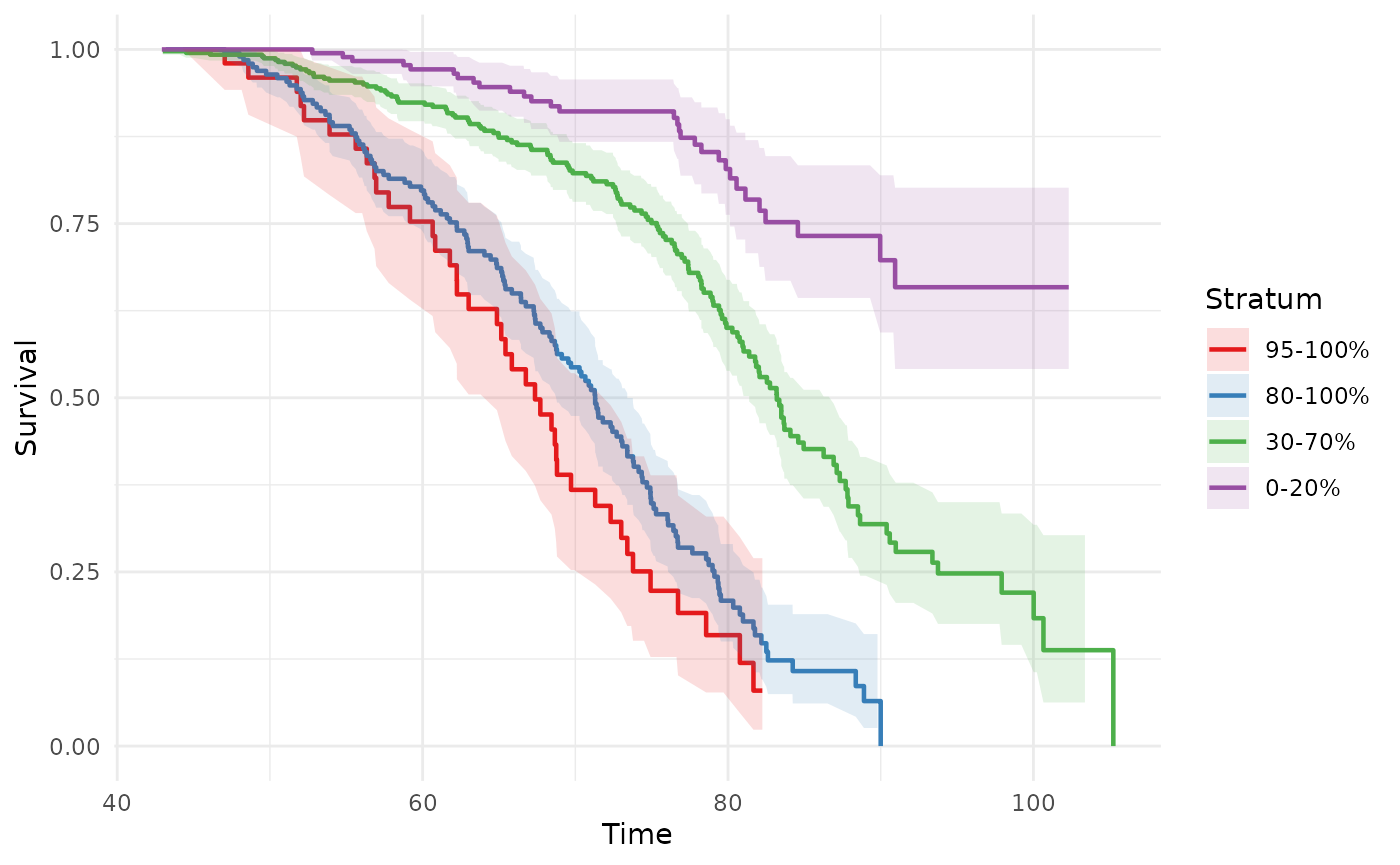
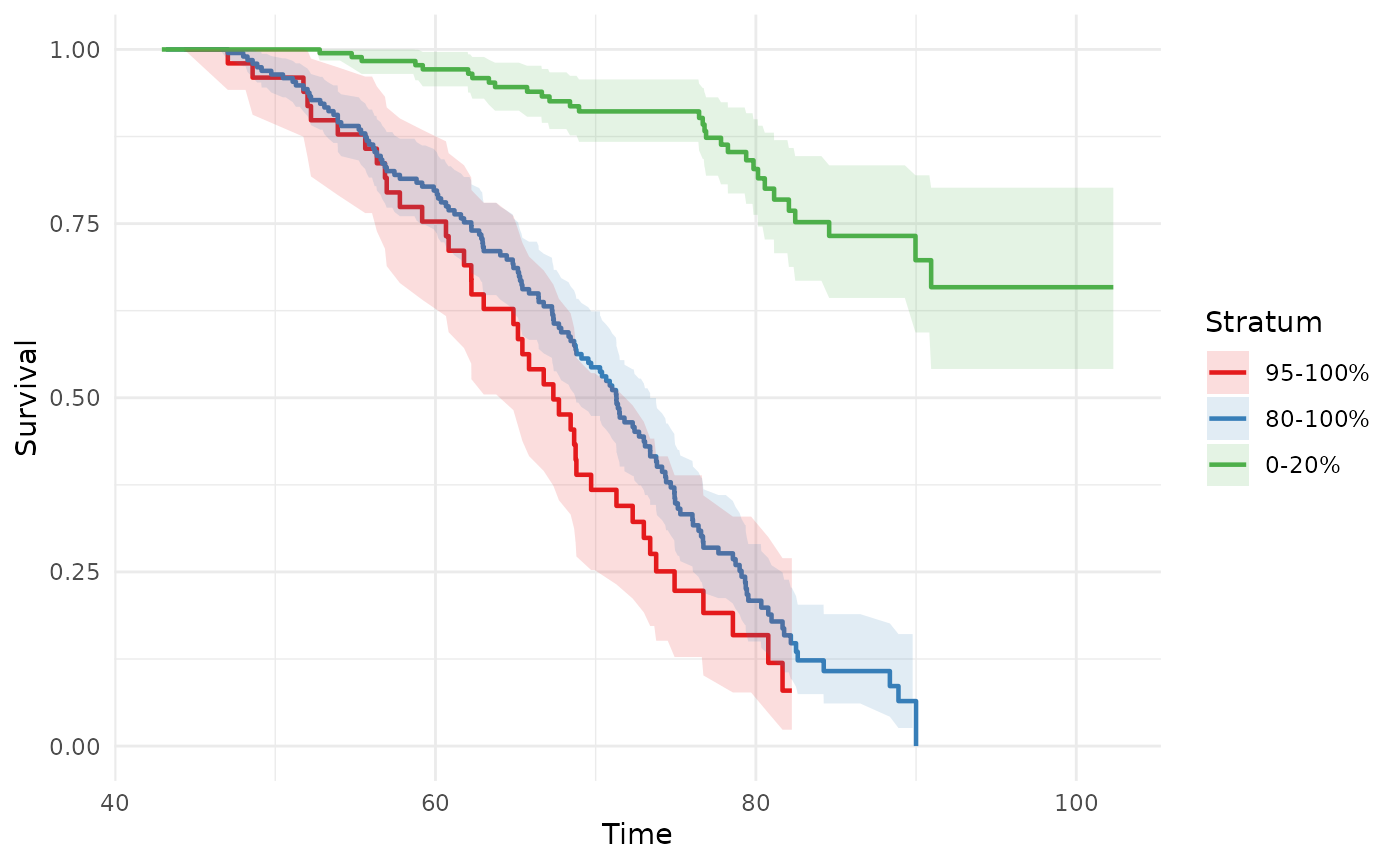
Deploying to gh-pages from @ amorris28/hazrd@01b8f826bd342c272f6f0e1f5f04eec6ed070474 🚀

diff --git a/articles/hazrd.html b/articles/hazrd.html
@@ -226,8 +226,11 @@ returns either a <code>ggplot</code> object
 <div class="section level3">
 <h3 id="default-plot">Default plot<a class="anchor" aria-label="anchor" href="#default-plot"></a>
 </h3>
-<p>The default <code>breaks = c(0.20, 0.80)</code> splits the cohort
-into bottom 20%, middle 60%, and top 20%:</p>
+<p>The default <code>intervals</code> produce four bands — top 5%
+(0.95–1), top 20% (0.80–1), middle 40% (0.30–0.70), and bottom 20%
+(0–0.20). Bands may overlap, which is useful for showing how
+progressively broader high-risk groups compare to the low-risk
+reference:</p>
 <div class="sourceCode" id="cb9"><pre class="downlit sourceCode r">
 <code class="sourceCode R"><span><span class="fu"><a href="../reference/phs_km_curve.html">phs_km_curve</a></span><span class="op">(</span><span class="va">test_data</span><span class="op">)</span></span>
 <span><span class="co">#&gt; Warning: Removed 2 rows containing missing values or values outside the scale range</span></span>
@@ -235,16 +238,32 @@ into bottom 20%, middle 60%, and top 20%:</p>
 <p><img src="hazrd_files/figure-html/km_default-1.png" class="r-plt" alt="" width="700"></p>
 </div>
 <div class="section level3">
-<h3 id="custom-cutpoints">Custom cutpoints<a class="anchor" aria-label="anchor" href="#custom-cutpoints"></a>
+<h3 id="custom-overlapping-intervals">Custom overlapping intervals<a class="anchor" aria-label="anchor" href="#custom-overlapping-intervals"></a>
 </h3>
-<p>Pass any numeric vector of percentile cutpoints (strictly in (0, 1))
-to <code>breaks</code>:</p>
+<p>Pass a list of <code>c(lo, hi)</code> percentile pairs to
+<code>intervals</code>. Bands can overlap freely — each is an
+independent Kaplan-Meier fit on the corresponding subset:</p>
 <div class="sourceCode" id="cb10"><pre class="downlit sourceCode r">
-<code class="sourceCode R"><span><span class="co"># Quintiles</span></span>
-<span><span class="fu"><a href="../reference/phs_km_curve.html">phs_km_curve</a></span><span class="op">(</span><span class="va">test_data</span>, breaks <span class="op">=</span> <span class="fu"><a href="https://rdrr.io/r/base/c.html" class="external-link">c</a></span><span class="op">(</span><span class="fl">0.20</span>, <span class="fl">0.40</span>, <span class="fl">0.60</span>, <span class="fl">0.80</span><span class="op">)</span><span class="op">)</span></span>
-<span><span class="co">#&gt; Warning: Removed 2 rows containing missing values or values outside the scale range</span></span>
+<code class="sourceCode R"><span><span class="fu"><a href="../reference/phs_km_curve.html">phs_km_curve</a></span><span class="op">(</span></span>
+<span>  <span class="va">test_data</span>,</span>
+<span>  intervals <span class="op">=</span> <span class="fu"><a href="https://rdrr.io/r/base/list.html" class="external-link">list</a></span><span class="op">(</span><span class="fu"><a href="https://rdrr.io/r/base/c.html" class="external-link">c</a></span><span class="op">(</span><span class="fl">0.95</span>, <span class="fl">1</span><span class="op">)</span>, <span class="fu"><a href="https://rdrr.io/r/base/c.html" class="external-link">c</a></span><span class="op">(</span><span class="fl">0.80</span>, <span class="fl">1</span><span class="op">)</span>, <span class="fu"><a href="https://rdrr.io/r/base/c.html" class="external-link">c</a></span><span class="op">(</span><span class="fl">0.00</span>, <span class="fl">0.20</span><span class="op">)</span><span class="op">)</span></span>
+<span><span class="op">)</span></span>
+<span><span class="co">#&gt; Warning: Removed 1 row containing missing values or values outside the scale range</span></span>
 <span><span class="co">#&gt; (`geom_ribbon()`).</span></span></code></pre></div>
 <p><img src="hazrd_files/figure-html/km_custom-1.png" class="r-plt" alt="" width="700"></p>
+</div>
+<div class="section level3">
+<h3 id="exclusive-bands-legacy-breaks">Exclusive bands (legacy <code>breaks</code>)<a class="anchor" aria-label="anchor" href="#exclusive-bands-legacy-breaks"></a>
+</h3>
+<p>For non-overlapping bands, use <code>breaks</code> with
+<code>intervals = NULL</code>. Pass a numeric vector of percentile
+cutpoints (strictly between 0 and 1):</p>
+<div class="sourceCode" id="cb11"><pre class="downlit sourceCode r">
+<code class="sourceCode R"><span><span class="co"># Quintiles</span></span>
+<span><span class="fu"><a href="../reference/phs_km_curve.html">phs_km_curve</a></span><span class="op">(</span><span class="va">test_data</span>, intervals <span class="op">=</span> <span class="cn">NULL</span>, breaks <span class="op">=</span> <span class="fu"><a href="https://rdrr.io/r/base/c.html" class="external-link">c</a></span><span class="op">(</span><span class="fl">0.20</span>, <span class="fl">0.40</span>, <span class="fl">0.60</span>, <span class="fl">0.80</span><span class="op">)</span><span class="op">)</span></span>
+<span><span class="co">#&gt; Warning: Removed 2 rows containing missing values or values outside the scale range</span></span>
+<span><span class="co">#&gt; (`geom_ribbon()`).</span></span></code></pre></div>
+<p><img src="hazrd_files/figure-html/km_breaks-1.png" class="r-plt" alt="" width="700"></p>
 </div>
 <div class="section level3">
 <h3 id="modifying-the-ggplot-output">Modifying the ggplot output<a class="anchor" aria-label="anchor" href="#modifying-the-ggplot-output"></a>
@@ -252,7 +271,7 @@ to <code>breaks</code>:</p>
 <p><code><a href="../reference/phs_km_curve.html">phs_km_curve()</a></code> returns a standard <code>ggplot</code>
 object that can be extended with any ggplot2 layers, themes, or
 scales:</p>
-<div class="sourceCode" id="cb11"><pre class="downlit sourceCode r">
+<div class="sourceCode" id="cb12"><pre class="downlit sourceCode r">
 <code class="sourceCode R"><span><span class="fu"><a href="../reference/phs_km_curve.html">phs_km_curve</a></span><span class="op">(</span><span class="va">test_data</span><span class="op">)</span> <span class="op">+</span></span>
 <span>  <span class="fu"><a href="https://ggplot2.tidyverse.org/reference/ggtheme.html" class="external-link">theme_classic</a></span><span class="op">(</span>base_size <span class="op">=</span> <span class="fl">13</span><span class="op">)</span> <span class="op">+</span></span>
 <span>  <span class="fu"><a href="https://ggplot2.tidyverse.org/reference/labs.html" class="external-link">labs</a></span><span class="op">(</span></span>
@@ -272,7 +291,7 @@ scales:</p>
 </h3>
 <p>Use <code>output = "data"</code> when you want to build a fully
 custom plot or pass the survival estimates on to further analysis:</p>
-<div class="sourceCode" id="cb12"><pre class="downlit sourceCode r">
+<div class="sourceCode" id="cb13"><pre class="downlit sourceCode r">
 <code class="sourceCode R"><span><span class="va">km_data</span> <span class="op">&lt;-</span> <span class="fu"><a href="../reference/phs_km_curve.html">phs_km_curve</a></span><span class="op">(</span><span class="va">test_data</span>, output <span class="op">=</span> <span class="st">"data"</span><span class="op">)</span></span>
 <span><span class="fu"><a href="https://rdrr.io/r/utils/head.html" class="external-link">head</a></span><span class="op">(</span><span class="va">km_data</span><span class="op">)</span></span>
 <span><span class="co">#&gt;       time  estimate  conf.low conf.high n.risk n.event stratum</span></span>
@@ -286,7 +305,7 @@ custom plot or pass the survival estimates on to further analysis:</p>
 <code>estimate</code>, <code>conf.low</code>, <code>conf.high</code>,
 <code>n.risk</code>, <code>n.event</code>, and <code>stratum</code>,
 which can be used directly with ggplot2:</p>
-<div class="sourceCode" id="cb13"><pre class="downlit sourceCode r">
+<div class="sourceCode" id="cb14"><pre class="downlit sourceCode r">
 <code class="sourceCode R"><span><span class="fu"><a href="https://ggplot2.tidyverse.org/reference/ggplot.html" class="external-link">ggplot</a></span><span class="op">(</span><span class="va">km_data</span>, <span class="fu"><a href="https://ggplot2.tidyverse.org/reference/aes.html" class="external-link">aes</a></span><span class="op">(</span>x <span class="op">=</span> <span class="va">time</span>, y <span class="op">=</span> <span class="va">estimate</span>,</span>
 <span>                    ymin <span class="op">=</span> <span class="va">conf.low</span>, ymax <span class="op">=</span> <span class="va">conf.high</span>,</span>
 <span>                    color <span class="op">=</span> <span class="va">stratum</span>, fill <span class="op">=</span> <span class="va">stratum</span><span class="op">)</span><span class="op">)</span> <span class="op">+</span></span>
@@ -310,12 +329,12 @@ which can be used directly with ggplot2:</p>
 curves for individuals at specified PHS percentiles. Unlike
 <code><a href="../reference/phs_km_curve.html">phs_km_curve()</a></code>, these are smooth model-based predictions,
 not empirical group estimates.</p>
-<div class="sourceCode" id="cb14"><pre class="downlit sourceCode r">
+<div class="sourceCode" id="cb15"><pre class="downlit sourceCode r">
 <code class="sourceCode R"><span><span class="fu"><a href="../reference/phs_cox_curve.html">phs_cox_curve</a></span><span class="op">(</span><span class="va">test_data</span><span class="op">)</span></span></code></pre></div>
 <p><img src="hazrd_files/figure-html/cox_default-1.png" class="r-plt" alt="" width="700"></p>
 <p>Supply specific percentiles via the <code>percentiles</code>
 argument:</p>
-<div class="sourceCode" id="cb15"><pre class="downlit sourceCode r">
+<div class="sourceCode" id="cb16"><pre class="downlit sourceCode r">
 <code class="sourceCode R"><span><span class="fu"><a href="../reference/phs_cox_curve.html">phs_cox_curve</a></span><span class="op">(</span><span class="va">test_data</span>, percentiles <span class="op">=</span> <span class="fu"><a href="https://rdrr.io/r/base/c.html" class="external-link">c</a></span><span class="op">(</span><span class="fl">0.01</span>, <span class="fl">0.10</span>, <span class="fl">0.50</span>, <span class="fl">0.90</span>, <span class="fl">0.99</span><span class="op">)</span><span class="op">)</span></span></code></pre></div>
 <p><img src="hazrd_files/figure-html/cox_custom-1.png" class="r-plt" alt="" width="700"></p>
 </div>

diff --git a/copilot-instructions.html b/copilot-instructions.html
@@ -47,10 +47,52 @@
 </div>
 <div class="section level2">
 <h2 id="pre-merge-checklist-dev---main">Pre-merge checklist (dev -&gt; main)<a class="anchor" aria-label="anchor" href="#pre-merge-checklist-dev---main"></a></h2>
-<p>Before merging <code>dev</code> into <code>main</code>, always run these steps in order: 1. <code>devtools::document()</code> — regenerate <code>NAMESPACE</code> and <code>man/</code> Rd files. 2. <code>devtools::check()</code> — must pass with 0 errors, 0 warnings, 0 notes. 3. Render <code>README.md</code> via the Docker container (see instructions above). 4. Commit all changed files (<code>man/</code>, <code>NAMESPACE</code>, <code>README.md</code>) before merging.</p>
-<p>Good example edits to get started - Small bugfix: ensure <code>or_age</code> bounds are handled (see <code>.calc_or_metric</code>) — add test covering an <code>or_age</code> outside observed range. - Add a new C-index method: implement <code>"uno"</code> in <code>.calc_cindex_metric()</code> and add a test and example in <code>R/phs_metrics.R</code> documentation.</p>
+<p>This is the full workflow from issue to merged release. Work is done on <code>dev</code>; <code>main</code> should always be clean and passing.</p>
+<div class="section level3">
+<h3 id="id_1-during-development-on-dev">1. During development (on <code>dev</code>)<a class="anchor" aria-label="anchor" href="#id_1-during-development-on-dev"></a></h3>
+<ul class="task-list"><li><label><input type="checkbox">Issues for the milestone are tagged in GitHub (e.g. milestone <code>0.2.2</code>)</label></li>
+<li><label><input type="checkbox">All feature/fix commits are on <code>dev</code></label></li>
+<li><label><input type="checkbox">A <code>testthat</code> test covers every changed behavior</label></li>
+</ul></div>
+<div class="section level3">
+<h3 id="id_2-documentation-on-dev-before-merge">2. Documentation (on <code>dev</code>, before merge)<a class="anchor" aria-label="anchor" href="#id_2-documentation-on-dev-before-merge"></a></h3>
+<ul class="task-list"><li>
+<p><label><input type="checkbox"><strong>roxygen</strong>: update <code>@param</code>, <code>@return</code>, <code>@examples</code> in <code>R/</code> source for any changed or new exported functions</label></p>
+<ul><li>Never use <code>\%</code> in roxygen comments — use plain text (“percent” or “0-20”) instead; see safety notes above</li>
+</ul></li>
+<li><p><label><input type="checkbox"><strong><code>devtools::document()</code></strong> — regenerate <code>NAMESPACE</code> and all <code>man/</code> Rd files; commit any changed files in <code>man/</code> and <code>NAMESPACE</code></label></p></li>
+<li><p><label><input type="checkbox"><strong><code>NEWS.md</code></strong> — add an entry under the current version heading describing new features, fixes, and breaking changes</label></p></li>
+<li><p><label><input type="checkbox"><strong>Vignette</strong> (<code>vignettes/hazrd.Rmd</code>) — update examples and narrative to reflect any new or changed parameters/behavior</label></p></li>
+<li>
+<p><label><input type="checkbox"><strong><code>README.Rmd</code></strong> — update quick example and installation section if needed; then render via Docker:</label></p>
+<pre><code>docker run --rm -v /path/to/hazrd:/repo my-r-image \
+  Rscript -e 'rmarkdown::render("/repo/README.Rmd", output_file = "/repo/README.md")'</code></pre>
+<p>Commit the updated <code>README.md</code></p>
+</li>
+<li><p><label><input type="checkbox"><strong><code>DESCRIPTION</code></strong> — bump <code>Version:</code> field to the new release number</label></p></li>
+</ul></div>
+<div class="section level3">
+<h3 id="id_3-final-checks-on-dev-before-merge">3. Final checks (on <code>dev</code>, before merge)<a class="anchor" aria-label="anchor" href="#id_3-final-checks-on-dev-before-merge"></a></h3>
+<ul class="task-list"><li><label><input type="checkbox"><strong><code>devtools::check()</code></strong> — must pass with 0 errors, 0 warnings, 0 notes</label></li>
+<li><label><input type="checkbox"><strong><code>devtools::test()</code></strong> — all tests green</label></li>
+<li><label><input type="checkbox">Commit everything; confirm <code>git status</code> is clean</label></li>
+</ul></div>
+<div class="section level3">
+<h3 id="id_4-merge-and-tag">4. Merge and tag<a class="anchor" aria-label="anchor" href="#id_4-merge-and-tag"></a></h3>
+<ul class="task-list"><li><label><input type="checkbox"><code>git checkout main &amp;&amp; git merge --ff-only dev</code></label></li>
+<li><label><input type="checkbox"><code>git push origin main</code></label></li>
+<li><label><input type="checkbox"><code>git tag vX.Y.Z main &amp;&amp; git push origin vX.Y.Z</code></label></li>
+<li><label><input type="checkbox">Create GitHub release pointing at the tag (use <code>gh release create</code>)</label></li>
+<li><label><input type="checkbox">Close resolved issues (commit messages with <code>Closes #N</code> do this automatically)</label></li>
+</ul></div>
+<div class="section level3">
+<h3 id="id_5-post-merge">5. Post-merge<a class="anchor" aria-label="anchor" href="#id_5-post-merge"></a></h3>
+<ul class="task-list"><li><label><input type="checkbox"><code>git checkout dev</code> — continue future work on <code>dev</code></label></li>
+<li><label><input type="checkbox">Bump <code>DESCRIPTION</code> version to next dev version (e.g. <code>0.2.2.9000</code>) on <code>dev</code></label></li>
+</ul><p>Good example edits to get started - Small bugfix: ensure <code>or_age</code> bounds are handled (see <code>.calc_or_metric</code>) — add test covering an <code>or_age</code> outside observed range. - Add a new C-index method: implement <code>"uno"</code> in <code>.calc_cindex_metric()</code> and add a test and example in <code>R/phs_metrics.R</code> documentation.</p>
 <p>Prompting hints for the AI agent - When you change metric output shape, list the exact column names and show a one-row example tibble so maintainers can verify compatibility. - For bootstrap changes, include a minimal reproducible call of <code>phs_metrics</code> with <code>bootstrap = TRUE</code> and <code>n_boot = 50</code> in tests so CI runs fast.</p>
 <p>If anything in this file is unclear or you’d like more detail (examples of expected inputs, a sample dev/test script, or CI matrix notes), tell me which section and I’ll expand it.</p>
+</div>
 </div>
 
 

diff --git a/index.html b/index.html
@@ -99,11 +99,14 @@
 <span>  seed      <span class="op">=</span> <span class="fl">42</span></span>
 <span><span class="op">)</span></span>
 <span></span>
-<span><span class="co"># Kaplan-Meier plot stratified by PHS percentile (returns a ggplot object)</span></span>
+<span><span class="co"># Kaplan-Meier plot with overlapping intervals (returns a ggplot object)</span></span>
 <span><span class="fu"><a href="reference/phs_km_curve.html">phs_km_curve</a></span><span class="op">(</span><span class="va">test_data</span><span class="op">)</span></span>
 <span></span>
-<span><span class="co"># Return tidy data for a custom ggplot</span></span>
-<span><span class="va">km_data</span> <span class="op">&lt;-</span> <span class="fu"><a href="reference/phs_km_curve.html">phs_km_curve</a></span><span class="op">(</span><span class="va">test_data</span>, breaks <span class="op">=</span> <span class="fu"><a href="https://rdrr.io/r/base/c.html" class="external-link">c</a></span><span class="op">(</span><span class="fl">0.20</span>, <span class="fl">0.40</span>, <span class="fl">0.60</span>, <span class="fl">0.80</span><span class="op">)</span>, output <span class="op">=</span> <span class="st">"data"</span><span class="op">)</span></span></code></pre></div>
+<span><span class="co"># Overlapping intervals — top 5%, top 20%, bottom 20%</span></span>
+<span><span class="fu"><a href="reference/phs_km_curve.html">phs_km_curve</a></span><span class="op">(</span><span class="va">test_data</span>, intervals <span class="op">=</span> <span class="fu"><a href="https://rdrr.io/r/base/list.html" class="external-link">list</a></span><span class="op">(</span><span class="fu"><a href="https://rdrr.io/r/base/c.html" class="external-link">c</a></span><span class="op">(</span><span class="fl">0.95</span>, <span class="fl">1</span><span class="op">)</span>, <span class="fu"><a href="https://rdrr.io/r/base/c.html" class="external-link">c</a></span><span class="op">(</span><span class="fl">0.80</span>, <span class="fl">1</span><span class="op">)</span>, <span class="fu"><a href="https://rdrr.io/r/base/c.html" class="external-link">c</a></span><span class="op">(</span><span class="fl">0</span>, <span class="fl">0.20</span><span class="op">)</span><span class="op">)</span><span class="op">)</span></span>
+<span></span>
+<span><span class="co"># Legacy exclusive bands via breaks</span></span>
+<span><span class="va">km_data</span> <span class="op">&lt;-</span> <span class="fu"><a href="reference/phs_km_curve.html">phs_km_curve</a></span><span class="op">(</span><span class="va">test_data</span>, intervals <span class="op">=</span> <span class="cn">NULL</span>, breaks <span class="op">=</span> <span class="fu"><a href="https://rdrr.io/r/base/c.html" class="external-link">c</a></span><span class="op">(</span><span class="fl">0.20</span>, <span class="fl">0.40</span>, <span class="fl">0.60</span>, <span class="fl">0.80</span><span class="op">)</span>, output <span class="op">=</span> <span class="st">"data"</span><span class="op">)</span></span></code></pre></div>
 </div>
 <div class="section level2">
 <h2 id="planned-features">Planned features<a class="anchor" aria-label="anchor" href="#planned-features"></a>

diff --git a/copilot-instructions.md b/copilot-instructions.md
@@ -90,12 +90,71 @@ Rd comment and can corrupt the `\arguments{}` block. Use plain text
 
 ## Pre-merge checklist (dev -\> main)
 
-Before merging `dev` into `main`, always run these steps in order: 1.
-`devtools::document()` — regenerate `NAMESPACE` and `man/` Rd files. 2.
-`devtools::check()` — must pass with 0 errors, 0 warnings, 0 notes. 3.
-Render `README.md` via the Docker container (see instructions above). 4.
-Commit all changed files (`man/`, `NAMESPACE`, `README.md`) before
-merging.
+This is the full workflow from issue to merged release. Work is done on
+`dev`; `main` should always be clean and passing.
+
+### 1. During development (on `dev`)
+
+Issues for the milestone are tagged in GitHub (e.g. milestone `0.2.2`)
+
+All feature/fix commits are on `dev`
+
+A `testthat` test covers every changed behavior
+
+### 2. Documentation (on `dev`, before merge)
+
+**roxygen**: update `@param`, `@return`, `@examples` in `R/` source for
+any changed or new exported functions
+
+- Never use `\%` in roxygen comments — use plain text (“percent” or
+  “0-20”) instead; see safety notes above
+
+**`devtools::document()`** — regenerate `NAMESPACE` and all `man/` Rd
+files; commit any changed files in `man/` and `NAMESPACE`
+
+**`NEWS.md`** — add an entry under the current version heading
+describing new features, fixes, and breaking changes
+
+**Vignette** (`vignettes/hazrd.Rmd`) — update examples and narrative to
+reflect any new or changed parameters/behavior
+
+**`README.Rmd`** — update quick example and installation section if
+needed; then render via Docker:
+
+    docker run --rm -v /path/to/hazrd:/repo my-r-image \
+      Rscript -e 'rmarkdown::render("/repo/README.Rmd", output_file = "/repo/README.md")'
+
+Commit the updated `README.md`
+
+**`DESCRIPTION`** — bump `Version:` field to the new release number
+
+### 3. Final checks (on `dev`, before merge)
+
+**`devtools::check()`** — must pass with 0 errors, 0 warnings, 0 notes
+
+**`devtools::test()`** — all tests green
+
+Commit everything; confirm `git status` is clean
+
+### 4. Merge and tag
+
+`git checkout main && git merge --ff-only dev`
+
+`git push origin main`
+
+`git tag vX.Y.Z main && git push origin vX.Y.Z`
+
+Create GitHub release pointing at the tag (use `gh release create`)
+
+Close resolved issues (commit messages with `Closes #N` do this
+automatically)
+
+### 5. Post-merge
+
+`git checkout dev` — continue future work on `dev`
+
+Bump `DESCRIPTION` version to next dev version (e.g. `0.2.2.9000`) on
+`dev`
 
 Good example edits to get started - Small bugfix: ensure `or_age` bounds
 are handled (see `.calc_or_metric`) — add test covering an `or_age`

diff --git a/articles/hazrd.md b/articles/hazrd.md
@@ -177,8 +177,10 @@ object (`output = "plot"`, the default) or a tidy data frame
 
 ### Default plot
 
-The default `breaks = c(0.20, 0.80)` splits the cohort into bottom 20%,
-middle 60%, and top 20%:
+The default `intervals` produce four bands — top 5% (0.95–1), top 20%
+(0.80–1), middle 40% (0.30–0.70), and bottom 20% (0–0.20). Bands may
+overlap, which is useful for showing how progressively broader high-risk
+groups compare to the low-risk reference:
 
 ``` r
 phs_km_curve(test_data)
@@ -188,19 +190,36 @@ phs_km_curve(test_data)
 
 ![](hazrd_files/figure-html/km_default-1.png)
 
-### Custom cutpoints
+### Custom overlapping intervals
 
-Pass any numeric vector of percentile cutpoints (strictly in (0, 1)) to
-`breaks`:
+Pass a list of `c(lo, hi)` percentile pairs to `intervals`. Bands can
+overlap freely — each is an independent Kaplan-Meier fit on the
+corresponding subset:
 
 ``` r
-# Quintiles
-phs_km_curve(test_data, breaks = c(0.20, 0.40, 0.60, 0.80))
-#> Warning: Removed 2 rows containing missing values or values outside the scale range
+phs_km_curve(
+  test_data,
+  intervals = list(c(0.95, 1), c(0.80, 1), c(0.00, 0.20))
+)
+#> Warning: Removed 1 row containing missing values or values outside the scale range
 #> (`geom_ribbon()`).
 ```
 
 ![](hazrd_files/figure-html/km_custom-1.png)
+
+### Exclusive bands (legacy `breaks`)
+
+For non-overlapping bands, use `breaks` with `intervals = NULL`. Pass a
+numeric vector of percentile cutpoints (strictly between 0 and 1):
+
+``` r
+# Quintiles
+phs_km_curve(test_data, intervals = NULL, breaks = c(0.20, 0.40, 0.60, 0.80))
+#> Warning: Removed 2 rows containing missing values or values outside the scale range
+#> (`geom_ribbon()`).
+```
+
+![](hazrd_files/figure-html/km_breaks-1.png)
 
 ### Modifying the ggplot output
 

diff --git a/index.md b/index.md
@@ -53,11 +53,14 @@ phs_metrics(
   seed      = 42
 )
 
-# Kaplan-Meier plot stratified by PHS percentile (returns a ggplot object)
+# Kaplan-Meier plot with overlapping intervals (returns a ggplot object)
 phs_km_curve(test_data)
 
-# Return tidy data for a custom ggplot
-km_data <- phs_km_curve(test_data, breaks = c(0.20, 0.40, 0.60, 0.80), output = "data")
+# Overlapping intervals — top 5%, top 20%, bottom 20%
+phs_km_curve(test_data, intervals = list(c(0.95, 1), c(0.80, 1), c(0, 0.20)))
+
+# Legacy exclusive bands via breaks
+km_data <- phs_km_curve(test_data, intervals = NULL, breaks = c(0.20, 0.40, 0.60, 0.80), output = "data")
 ```
 
 ## Planned features
